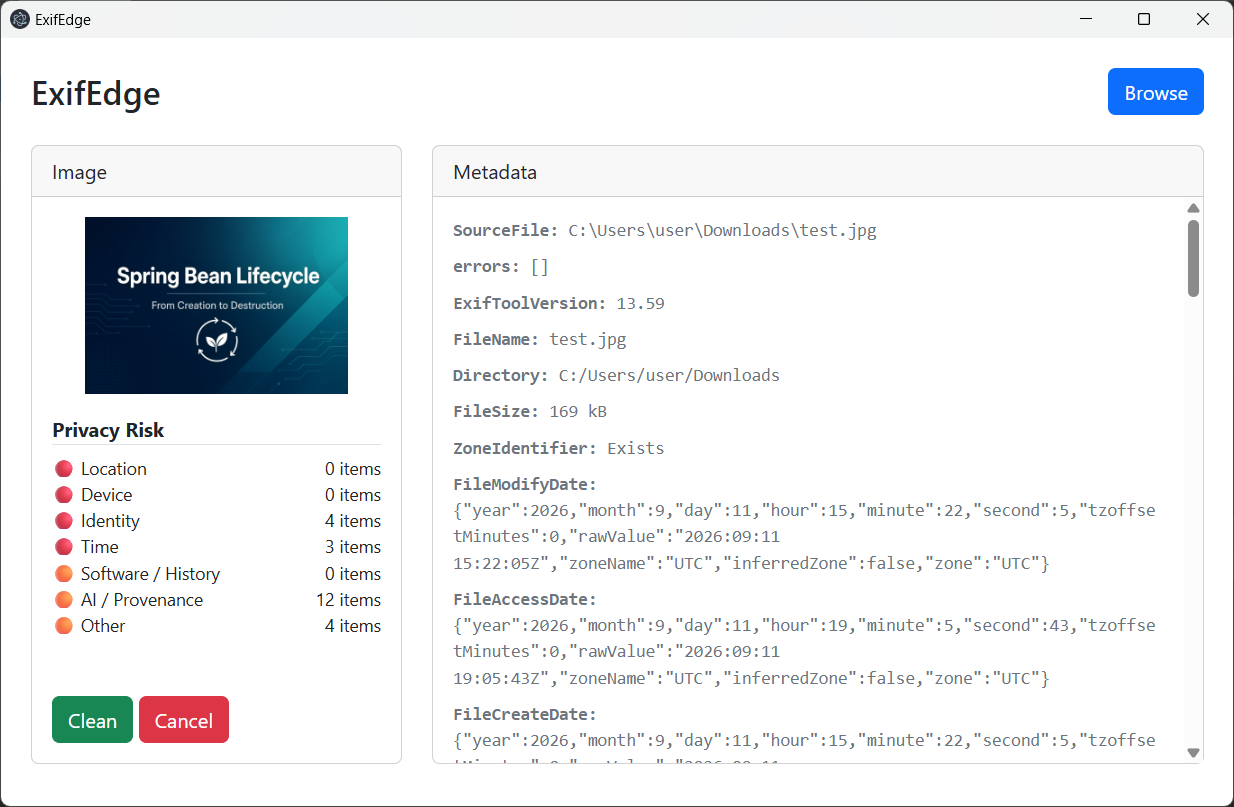
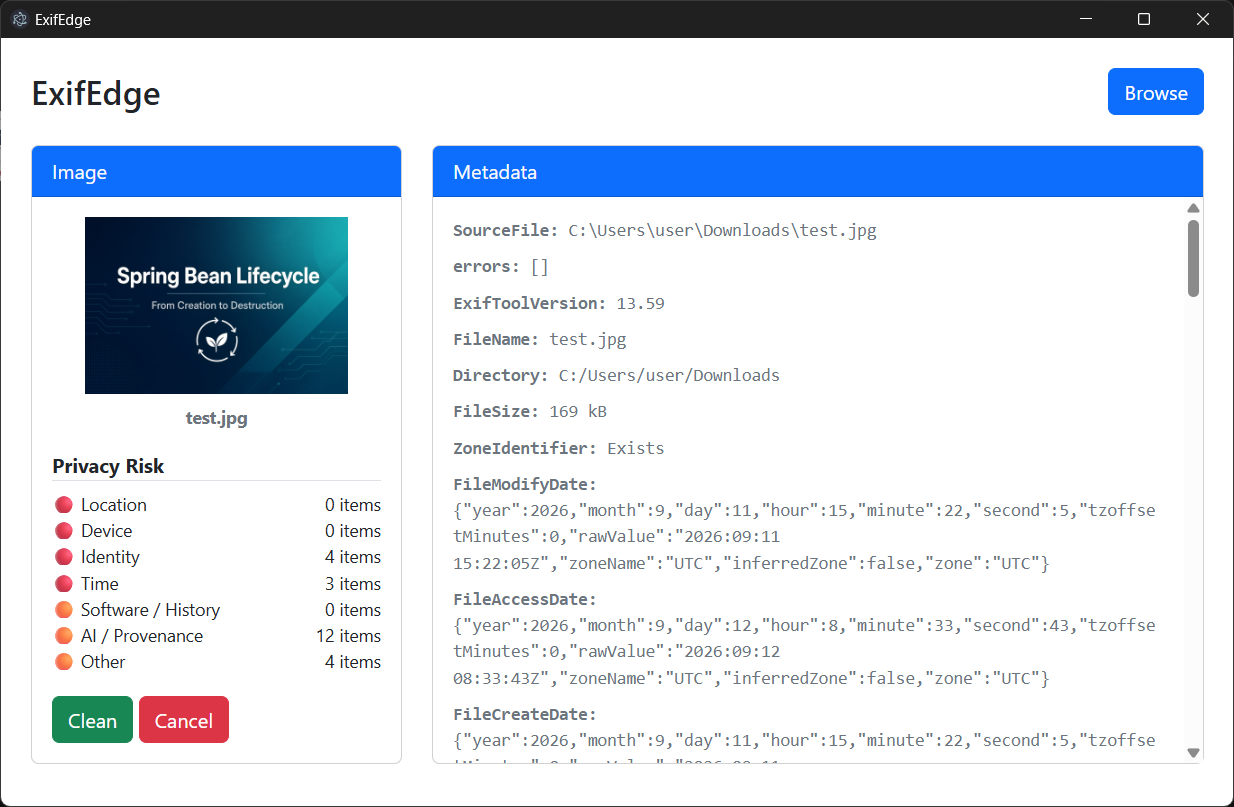
fifth commit

diff --git a/app/core/script.js b/app/core/script.js
@@ -1,5 +1,6 @@
 const selectButton = document.getElementById('selectButton');
 const imagePreview = document.getElementById('imagePreview');
+const imageName = document.getElementById('imageName');
 const metadata = document.getElementById('metadata');
 const cleanButton = document.getElementById('cleanButton');
 const cancelButton = document.getElementById('cancelButton');
@@ -20,6 +21,9 @@ selectButton.addEventListener('click', async () => {
     }
 
     imagePreview.src = image.url;
+    imageName.classList.remove('d-none');
+    imageName.textContent = new URL(image.url).pathname.split('/').pop();
+
     imagePreview.classList.remove('d-none');
     cleanButton.classList.remove('d-none');
     cancelButton.classList.remove('d-none');
@@ -50,7 +54,6 @@ selectButton.addEventListener('click', async () => {
 function displayPrivacyRisk(metadata) {
 
     const counts = classifyMetadata(metadata)
-
 
     privacyRisk.innerHTML = `
         <div class="fw-bold mb-2 border-bottom">Privacy Risk</div>
@@ -231,7 +234,7 @@ cleanButton.addEventListener('click', async () => {
 
     if (result) {
 
-        console.log('Image Clean Successful!', result);
+        console.log('Image Clean Successful!', result.path);
 
         successToastInstance.show();
 
@@ -249,6 +252,9 @@ cancelButton.addEventListener('click', async () => {
 
     imagePreview.src = '';
     imagePreview.classList.add('d-none');
+
+    imageName.classList.add('d-none');
+    imageName.textContent = '';
 
     metadata.innerText = '';
     privacyRisk.innerHTML = ``;

diff --git a/app/index.html b/app/index.html
@@ -42,6 +42,7 @@
                             <div class="row">
                                 <div id="imageContainer" class="col-md-12 text-center">
                                     <img id="imagePreview" class="img-fluid d-none" style="max-width: 80%;" />
+                                    <div id="imageName" class="small text-secondary mt-2 d-none fw-bold"></div>
                                 </div>
                             </div>
                             <div class="row">
